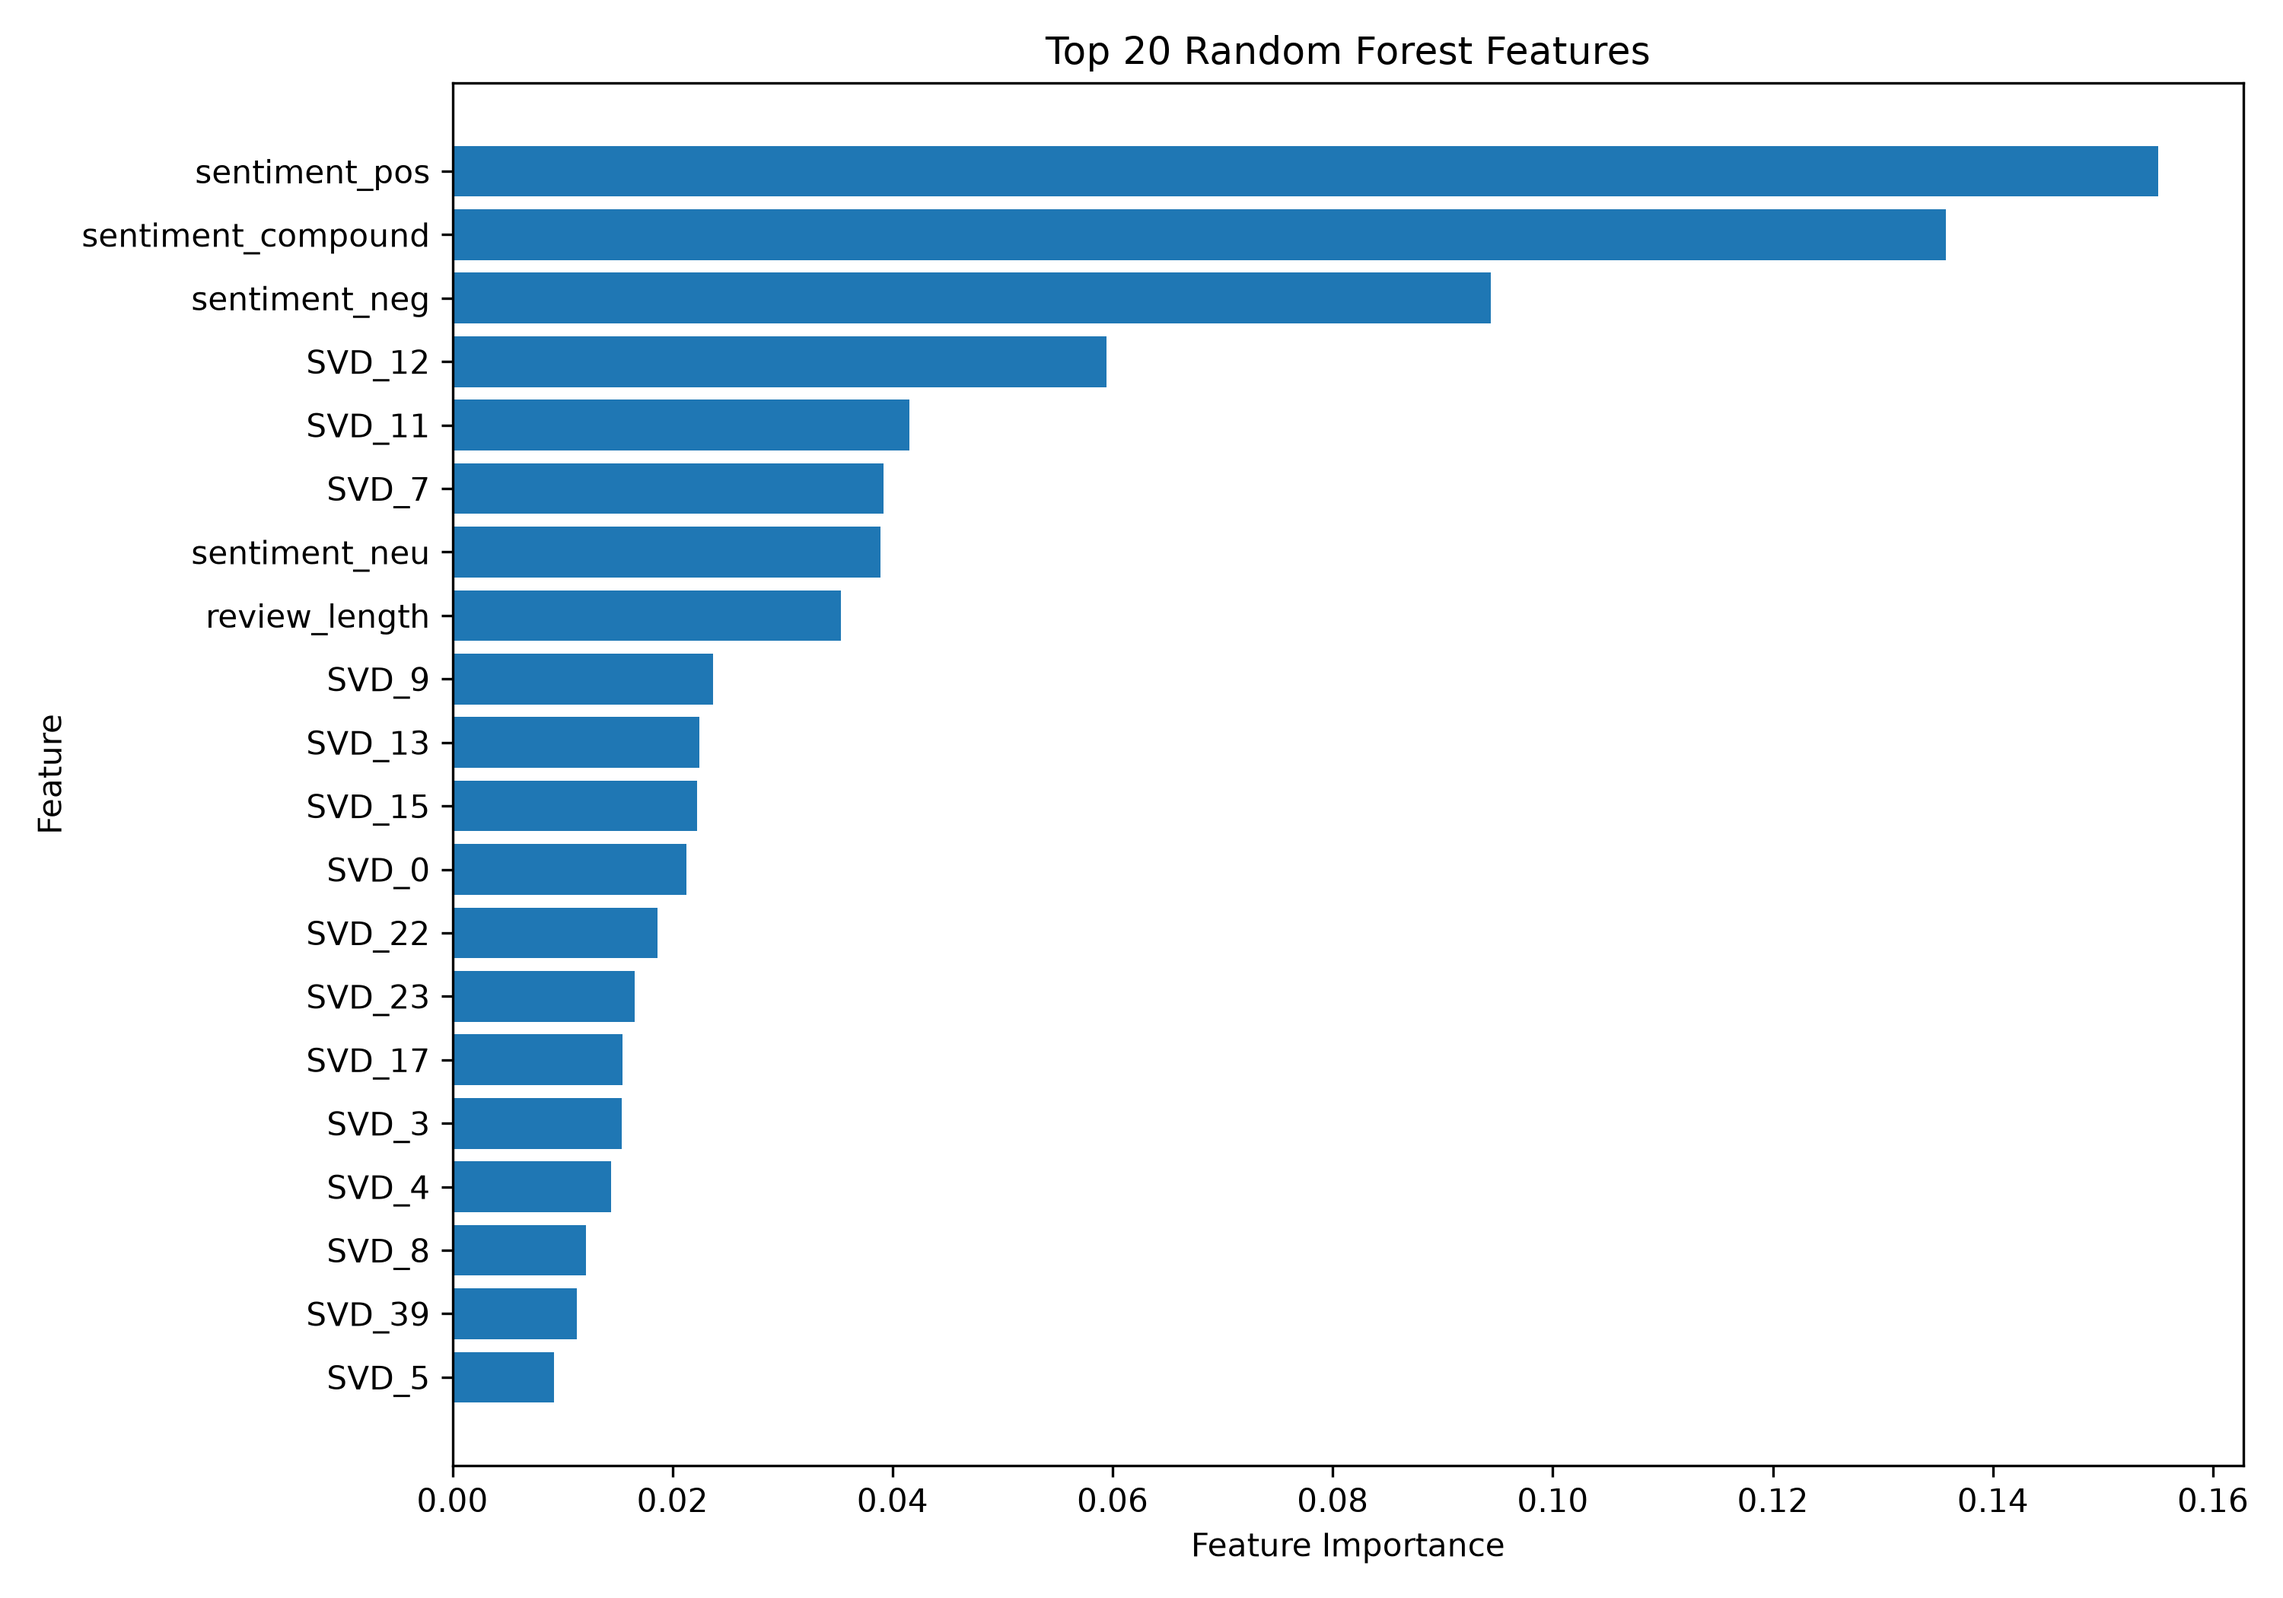
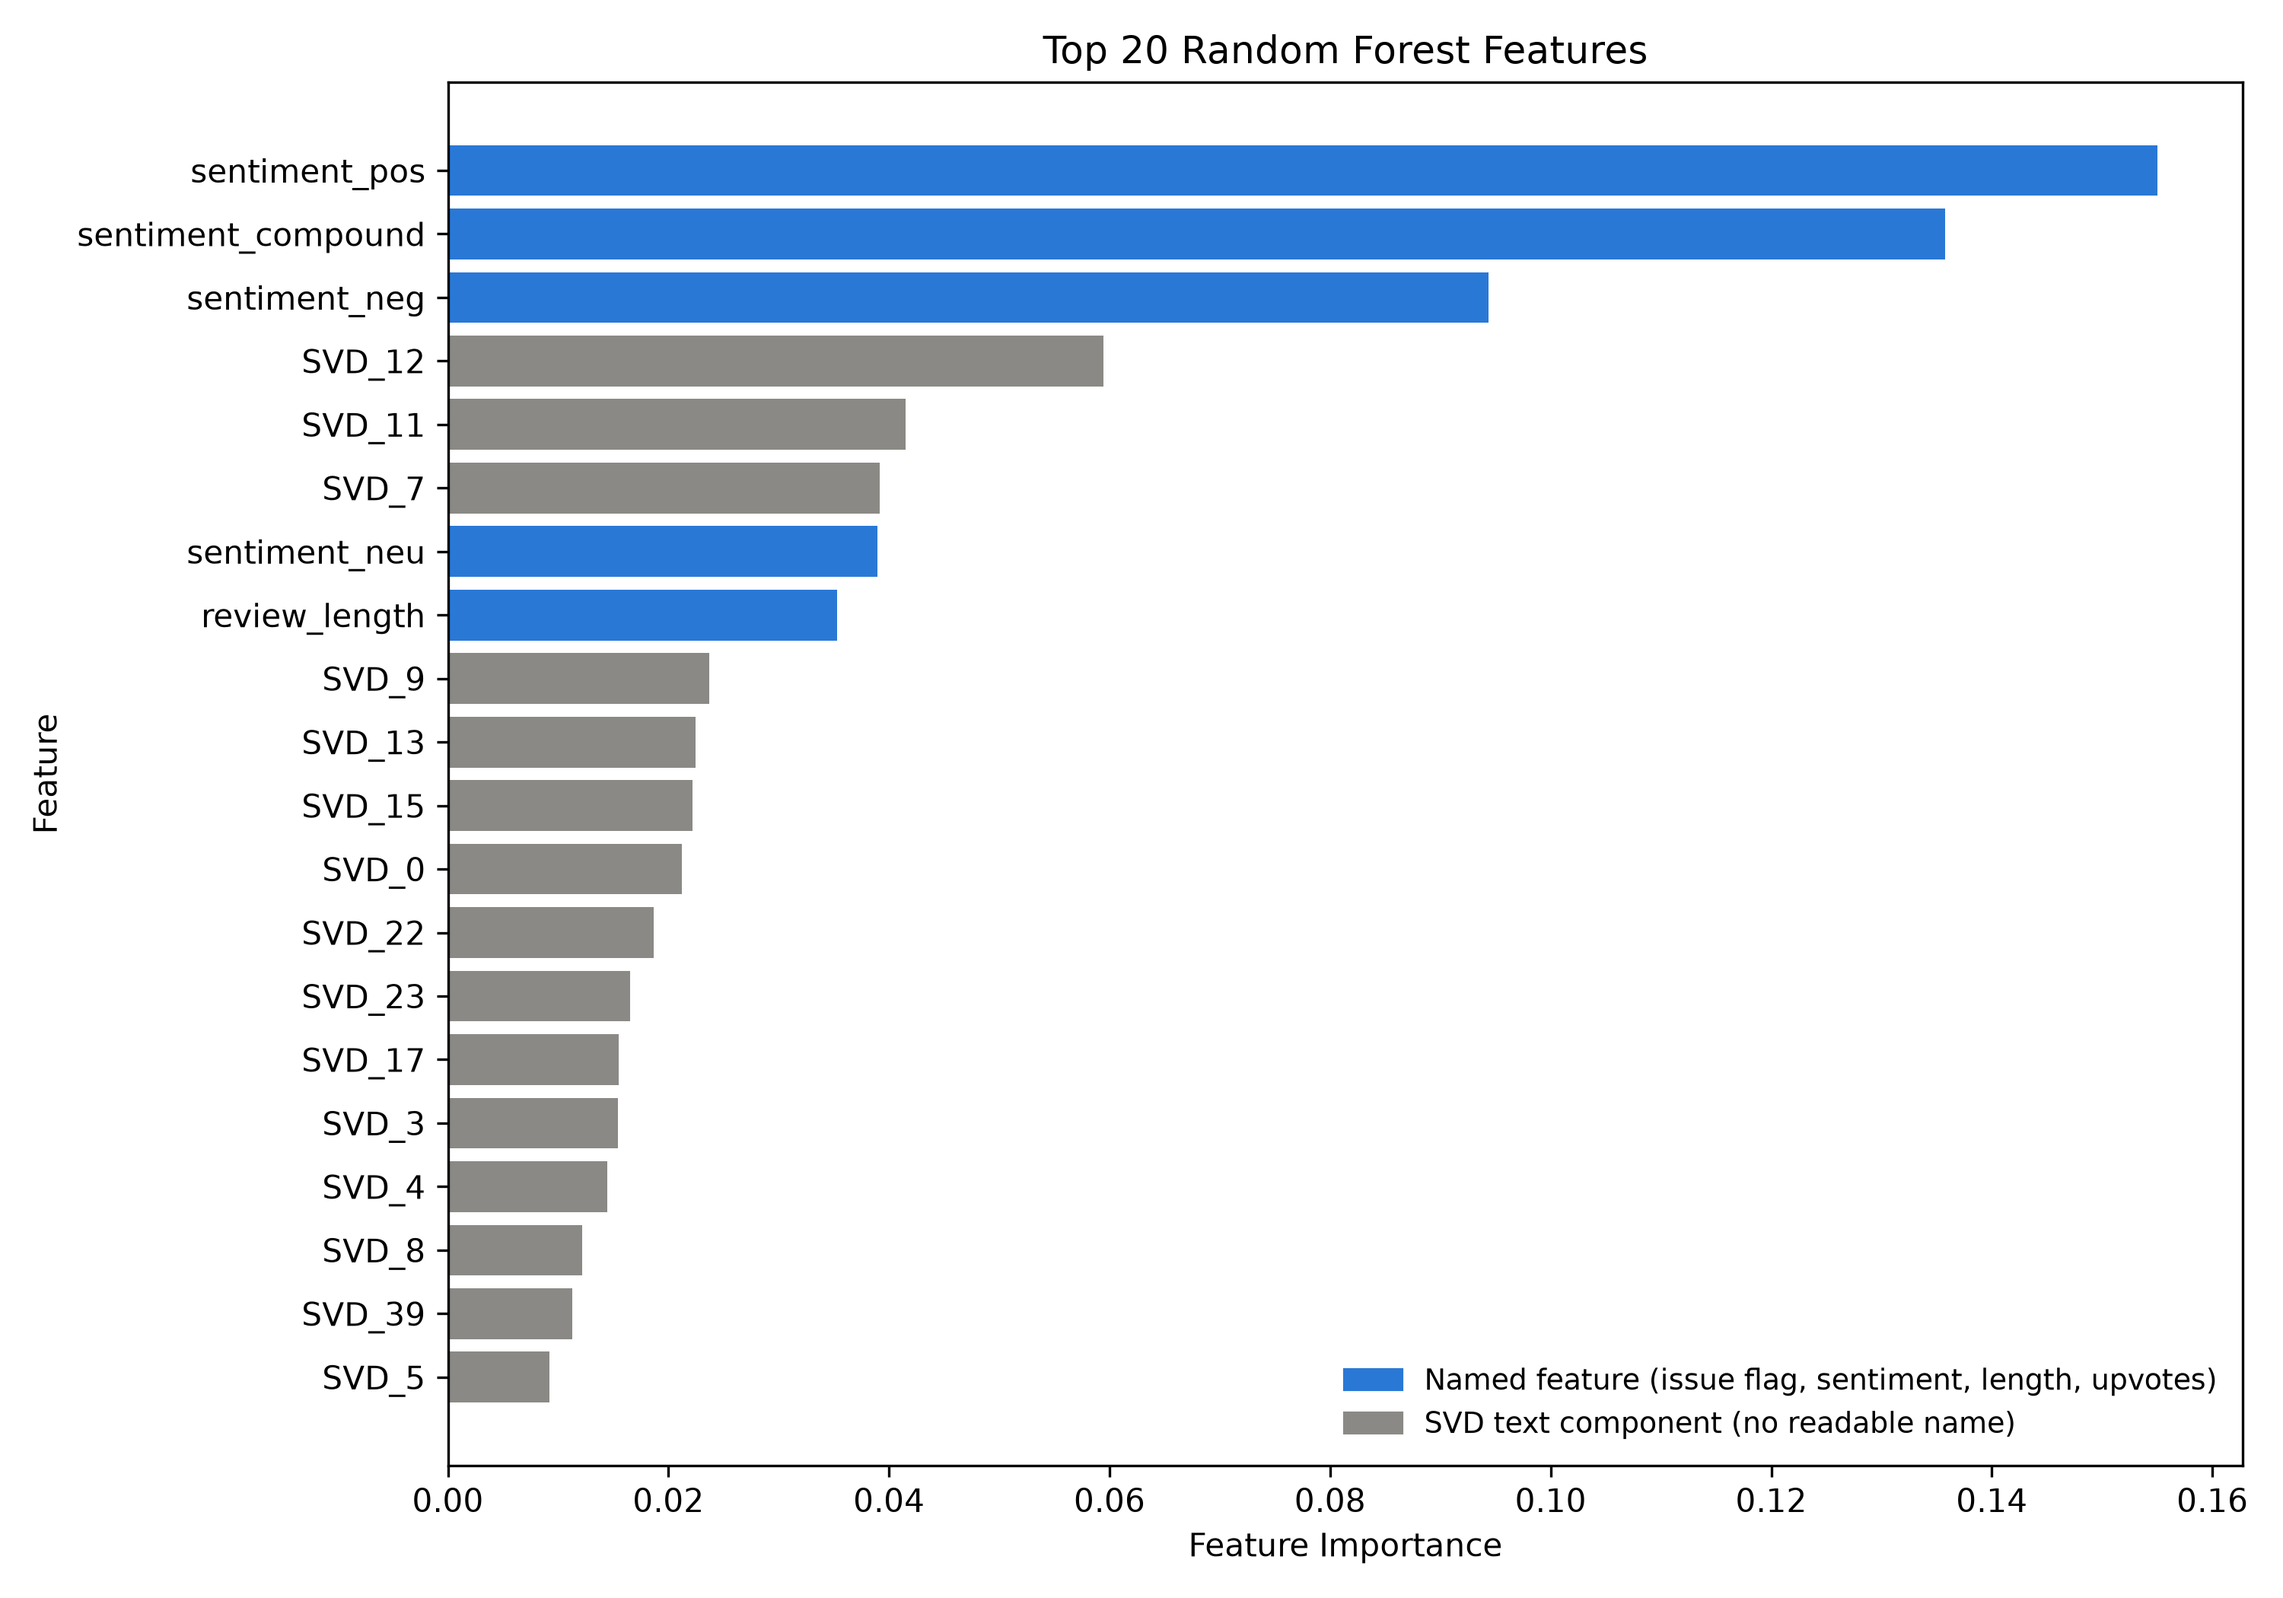
fix(model-figures): colour named vs SVD features and hide stop-word-only terms
Feature importance charts now distinguish named features from anonymous SVD components. The TF-IDF terms chart hides terms made only of stop words. MODEL_EVALUATION.md notes the change, the thumbs_up caveat and the predict script.

diff --git a/scripts/08_model_interpretation.py b/scripts/08_model_interpretation.py
@@ -4,6 +4,8 @@ import joblib
 import numpy as np
 import pandas as pd
 import matplotlib.pyplot as plt
+from matplotlib.patches import Patch
+from sklearn.feature_extraction.text import ENGLISH_STOP_WORDS
 
 MODEL_DIR = "models"
 FIGURE_DIR = "figures"
@@ -35,6 +37,20 @@ with open("data/feature_names.json") as f:
 
 print("Loaded trained models and feature-engineering artifacts.")
 
+# Bars for the 15 named structural features are blue; the 200 SVD text components (no readable name) are grey.
+STRUCTURAL_COLOR, SVD_COLOR = "#2a78d6", "#8a8985"
+
+
+def bar_colors(features):
+    return [SVD_COLOR if str(f).startswith("SVD_") else STRUCTURAL_COLOR for f in features]
+
+
+def group_legend(ax):
+    ax.legend(handles=[Patch(color=STRUCTURAL_COLOR, label="Named feature (issue flag, sentiment, length, upvotes)"),
+                       Patch(color=SVD_COLOR, label="SVD text component (no readable name)")],
+              loc="lower right", frameon=False, fontsize=9)
+
+
 # --------------------------------------------------
 # 1. Logistic Regression feature importance
 # --------------------------------------------------
@@ -57,7 +73,8 @@ plt.figure(figsize=(10, 7))
 
 plt.barh(
     range(len(top_logistic)),
-    top_logistic["coefficient"].values
+    top_logistic["coefficient"].values,
+    color=bar_colors(top_logistic["feature"])
 )
 
 plt.yticks(
@@ -69,6 +86,7 @@ plt.xlabel("Logistic Regression Coefficient")
 plt.ylabel("Feature")
 plt.title("Top 20 Logistic Regression Features")
 plt.gca().invert_yaxis()
+group_legend(plt.gca())
 plt.tight_layout()
 
 output_path = os.path.join(
@@ -102,7 +120,8 @@ plt.figure(figsize=(10, 7))
 
 plt.barh(
     range(len(top_rf)),
-    top_rf["importance"].values
+    top_rf["importance"].values,
+    color=bar_colors(top_rf["feature"])
 )
 
 plt.yticks(
@@ -114,6 +133,7 @@ plt.xlabel("Feature Importance")
 plt.ylabel("Feature")
 plt.title("Top 20 Random Forest Features")
 plt.gca().invert_yaxis()
+group_legend(plt.gca())
 plt.tight_layout()
 
 output_path = os.path.join(
@@ -139,9 +159,11 @@ term_scores = np.mean(
     axis=0
 )
 
-top_term_indices = np.argsort(
-    term_scores
-)[-20:][::-1]
+# Terms made only of stop words ("to", "my", "the", "is the") dominate the loadings because no stop-word list is used
+# in the TF-IDF step. They stay in the model; the chart shows the most informative terms instead.
+informative = np.array([not all(w in ENGLISH_STOP_WORDS for w in t.split()) for t in terms])
+ranked = np.argsort(term_scores)[::-1]
+top_term_indices = ranked[informative[ranked]][:20]
 
 top_terms = pd.DataFrame({
     "term": terms[top_term_indices],
@@ -162,7 +184,7 @@ plt.yticks(
 
 plt.xlabel("Mean Absolute SVD Loading")
 plt.ylabel("TF-IDF Term")
-plt.title("Top 20 TF-IDF Terms by SVD Importance")
+plt.title("Top 20 Informative TF-IDF Terms by SVD Importance (stop-word-only terms hidden)")
 plt.gca().invert_yaxis()
 plt.tight_layout()
 

diff --git a/MODEL_EVALUATION.md b/MODEL_EVALUATION.md
@@ -2,7 +2,7 @@
 
 **Capstone Project — Stage 5: Predictive Modeling**
 
-*Owners: Person 4 and Person 5 · Input: `data/engineered_features.npz`, `data/target.npy`, `data/model_row_index.csv.gz` (all built by `scripts/05_feature_engineering.py`) · Code: `scripts/06_model_training.py` to `scripts/12_normalized_confusion_matrices.py`*
+*Owners: Harshini Vennela and Kanishka D · Input: `data/engineered_features.npz`, `data/target.npy`, `data/model_row_index.csv.gz` (all built by `scripts/05_feature_engineering.py`) · Code: `scripts/06_model_training.py` to `scripts/12_normalized_confusion_matrices.py`*
 
 Outputs: trained Logistic Regression and Random Forest models (`models/`), evaluation metrics, test-set predictions, per-app and out-of-time results, and the charts in `figures/`.
 
@@ -205,7 +205,7 @@ The charts use the real feature names (saved in `data/feature_names.json`). Logi
 
 ![Top TF-IDF terms](figures/top_tfidf_terms.png)
 
-The terms with the largest SVD loadings are a mix of praise ("very fast", "the best", "fast service", "fast delivery", "good delivery") and complaint phrases ("very bad", "not good", "worst app"). Because stop words are kept, negated phrases such as "not good" now appear among them, along with very common words ("to", "my", "the"). The text components separate these vocabularies.
+The terms with the largest SVD loadings are a mix of praise ("very fast", "the best", "fast service", "fast delivery", "good delivery") and complaint phrases ("very bad", "not good", "worst app"). Because stop words are kept, negated phrases such as "not good" appear among them. Terms made only of stop words ("to", "my", "the") also get large loadings, so the chart hides them and shows the top 20 informative terms; they remain in the model. The text components separate the praise and complaint vocabularies.
 
 ---
 
@@ -222,6 +222,7 @@ The terms with the largest SVD loadings are a mix of praise ("very fast", "the b
 - The target comes from the star rating, so the model predicts "low rating", not a confirmed failure. Mis-ratings (1★ with "nice product") are counted as problems.
 - TF-IDF, SVD and the scaler are fitted on all rows before the split. They do not use the target, but a stricter setup would fit them on training rows only.
 - The settings check covers two parameters on one validation split; the TF-IDF settings and the number of SVD components were not searched. There is no cross-validation, but the bootstrap intervals on 227,598 test reviews are narrow (±0.003 PR-AUC).
+- `thumbs_up` is only known after a review has been live for a while, so a brand-new review has 0. Its weight is small (−0.01 in Logistic Regression), but a live triage system should drop it.
 - During the 21 Apr – 5 May feed gap, positive reviews are under-represented for five apps. This changes the label mix for those two weeks only.
 
 ---
@@ -234,6 +235,7 @@ The terms with the largest SVD loadings are a mix of praise ("very fast", "the b
 | `scripts/06_model_training.py` | Training, test metrics, baseline, per-group and out-of-time results |
 | `scripts/07`–`12` | Charts, feature importance, AUC summary, error summary, normalized confusion matrices |
 | `scripts/13_model_robustness_checks.py` | Bootstrap confidence intervals, feature-group ablation, settings check (§8) |
+| `scripts/14_predict_review.py` | Classifies new review text with the saved models (issue tags, VADER, TF-IDF → SVD, scaler, both classifiers) |
 | `data/model_bootstrap_ci.csv`, `data/model_ablation.csv`, `data/model_tuning.csv` | Robustness check results |
 | `data/model_results.csv`, `data/baseline_results.csv`, `data/model_results_by_group.csv`, `data/model_results_out_of_time.csv` | Metric tables |
 | `data/model_predictions.csv.gz` | Test-set predictions with app and domain |
